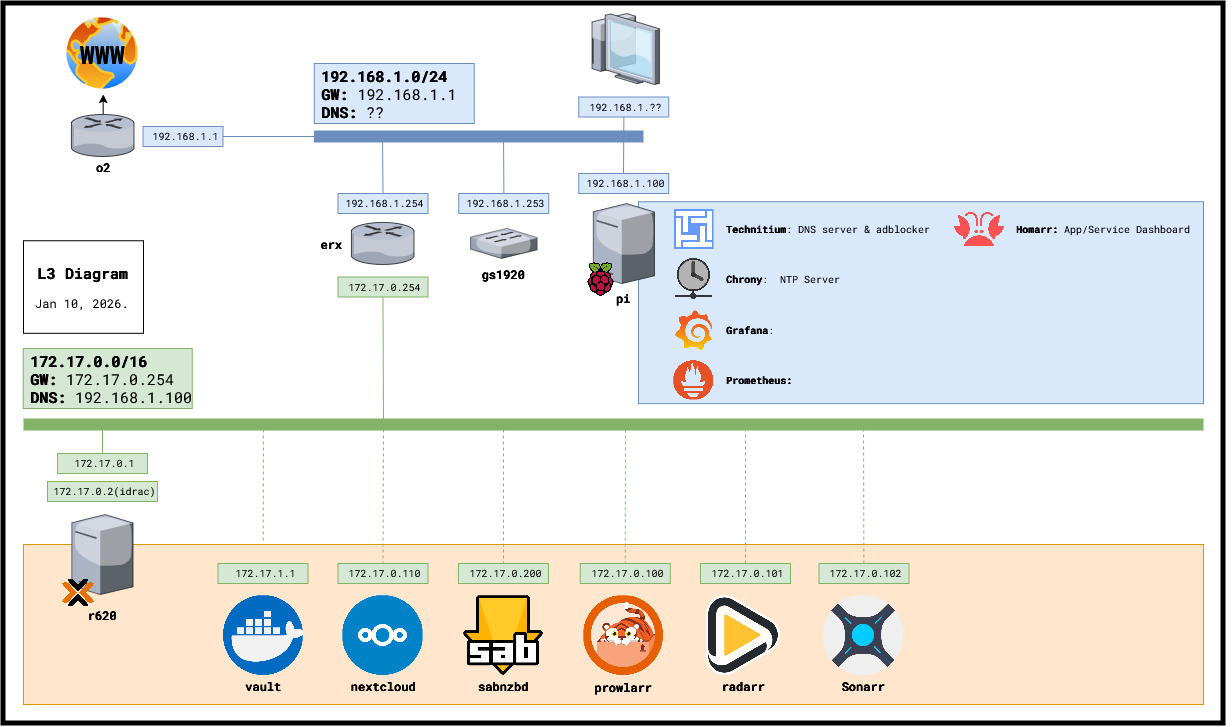
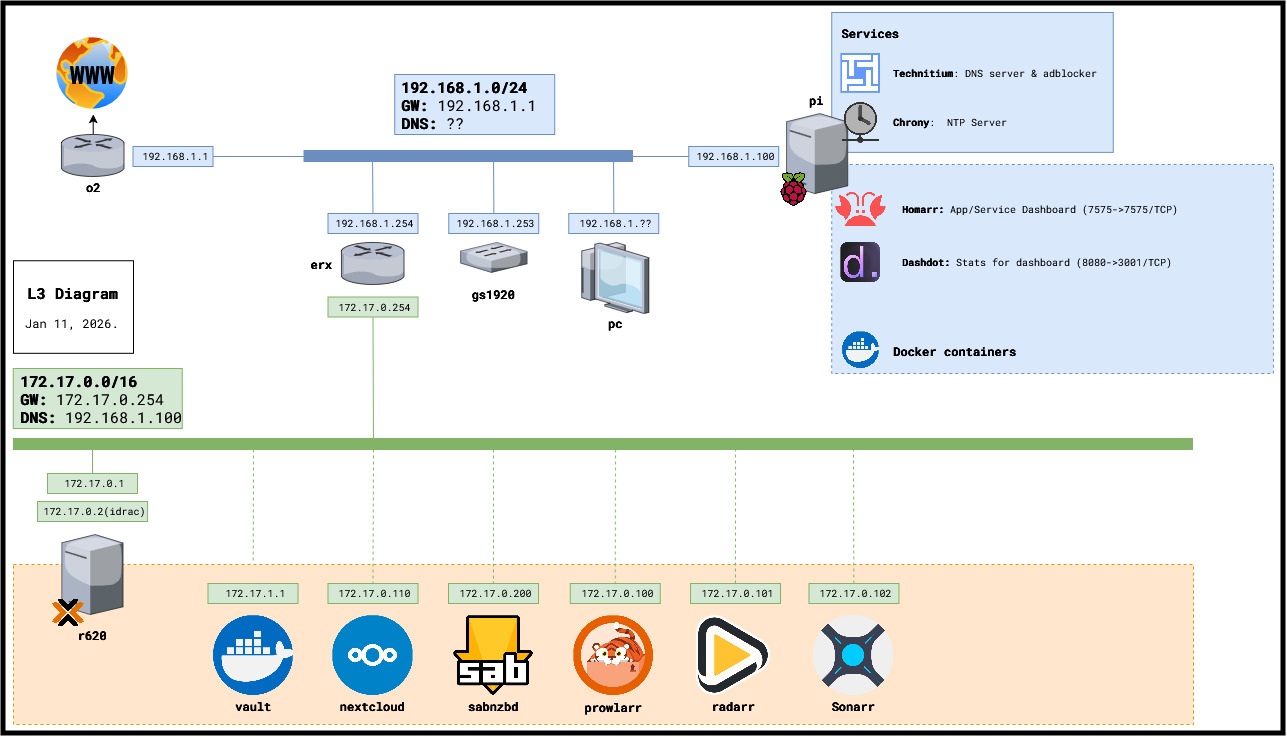
homarr

diff --git a/README.md b/README.md
@@ -80,8 +80,6 @@ Checkout [VAULT.md](VAULT.md) for a full explanation of how I am handling storag
 +==============+=========================+=========+================+
 | vault        | PVE Debian 13 LXC       | eth0    | 172.17.1.1     |
 +--------------+-------------------------+---------+----------------+
-| nextcloud    | PVE Debian 13 LXC       | eth0    | 172.17.1.110   |
-+--------------+-------------------------+---------+----------------+
 | prowlarr     | PVE Debian 13 VM        | eth0    | 172.17.0.100   |
 +--------------+-------------------------+---------+----------------+
 | radarr       | PVE Debian 13 VM        | eth0    | 172.17.0.101   |
@@ -94,26 +92,26 @@ Checkout [VAULT.md](VAULT.md) for a full explanation of how I am handling storag
 ### Service Matrix
 
 ```
-+==================================+================+==================================================+
-|               Service            |      Host      |                     Endpoint                     |
-+==================================+================+==================================================+
-| DNS Server (Technitium)          | pi             | 192.168.1.100 TCP+UDP/53 & TCP 5380 (Web portal) |
-+----------------------------------+----------------+--------------------------------------------------+
-| NTP Server (Chrony)              | pi             | 192.168.1.100 UDP/123                            |
-+----------------------------------+----------------+--------------------------------------------------+
-| DHCP Server for 192.168.1.0/24   | o2 router      | 192.168.1.1 UDP/67                               |
-+----------------------------------+----------------+--------------------------------------------------+
-| VAULT (NFS/SAMBA on a PVE LXC)   | LXC "vault"    | 172.17.1.1 TCP/2049 (NFS)                        |
-|                                  |                | 172.17.1.1 TCP/445  (SAMBA)                      |
-+----------------------------------+----------------+--------------------------------------------------+
-| nextcloud                        | VM "nextcloud" | 172.17.0.110 TCP/80 (Web portal)                 |
-+----------------------------------+----------------+--------------------------------------------------+
-| prowlarr                         | VM "prowlarr"  | 172.17.0.100 TCP/9696 (Web portal)               |
-+----------------------------------+----------------+--------------------------------------------------+
-| radarr                           | VM "radarr"    | 172.17.0.101 TCP/7878 (Web portal)               |
-+----------------------------------+----------------+--------------------------------------------------+
-| sabnzbd                          | VM "sabnzbd"   | 172.17.0.200 ???                                 |
-+----------------------------------+----------------+--------------------------------------------------+
++==================================+============================+==================================================+
+|               Service            |            Host            |                     Endpoint                     |
++==================================+============================+==================================================+
+| DNS Server (Technitium)          | pi                         | 192.168.1.100 TCP+UDP/53 & TCP 5380 (Web portal) |
++----------------------------------+----------------------------+--------------------------------------------------+
+| NTP Server (Chrony)              | pi                         | 192.168.1.100 UDP/123                            |
++----------------------------------+----------------------------+--------------------------------------------------+
+| DHCP Server for 192.168.1.0/24   | o2 router                  | 192.168.1.1 UDP/67                               |
++----------------------------------+----------------------------+--------------------------------------------------+
+| VAULT (NFS/SAMBA on a PVE LXC)   | LXC "vault" in proxmox     | 172.17.1.1 TCP/2049 (NFS)                        |
+|                                  |                            | 172.17.1.1 TCP/445  (SAMBA)                      |
++----------------------------------+----------------------------+--------------------------------------------------+
+| homarr                           | container "homarr" in rpi  | 192.168.1.100 TCP/7575 (Web portal)              |
++----------------------------------+----------------------------+--------------------------------------------------+
+| prowlarr                         | VM "prowlarr"              | 172.17.0.100 TCP/9696 (Web portal)               |
++----------------------------------+----------------------------+--------------------------------------------------+
+| radarr                           | VM "radarr"                | 172.17.0.101 TCP/7878 (Web portal)               |
++----------------------------------+----------------------------+--------------------------------------------------+
+| sabnzbd                          | VM "sabnzbd"               | 172.17.0.200 ???                                 |
++----------------------------------+----------------------------+--------------------------------------------------+
 ```
 
 
